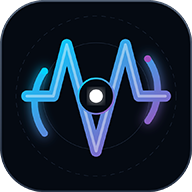
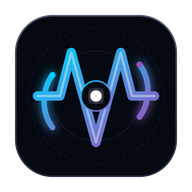
Add files via upload

diff --git a/www/mobile.html b/www/mobile.html
@@ -11,7 +11,7 @@
 <meta name="apple-mobile-web-app-status-bar-style" content="black-translucent">
 <meta name="apple-mobile-web-app-title" content="SyncPulse">
 <link rel="icon" type="image/svg+xml" href="logo.svg">
-<link rel="apple-touch-icon" href="icon-192.png">
+<link rel="apple-touch-icon" href="apple-touch-icon.png">
 <link rel="stylesheet" href="https://cdnjs.cloudflare.com/ajax/libs/font-awesome/6.5.2/css/all.min.css">
 <style>
   @import url('https://fonts.googleapis.com/css2?family=Inter:wght@400;500;600;700;800&display=swap');

diff --git a/www/sw.js b/www/sw.js
@@ -3,13 +3,14 @@
 // Nunca intercepta chamadas à API nem ao WebSocket — essas vão sempre à rede,
 // para o servidor configurado em SERVER_URL (que pode ser de origem diferente).
 
-const CACHE_NAME = 'syncpulse-shell-v1';
+const CACHE_NAME = 'syncpulse-shell-v2';
 const SHELL_FILES = [
   '/mobile.html',
   '/manifest.json',
   '/icon-192.png',
   '/icon-512.png',
   '/icon-512-maskable.png',
+  '/apple-touch-icon.png',
 ];
 
 self.addEventListener('install', (event) => {
